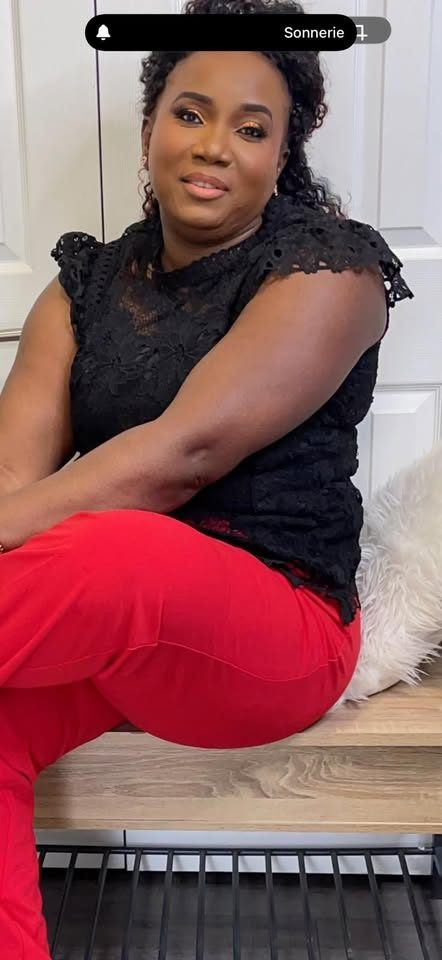
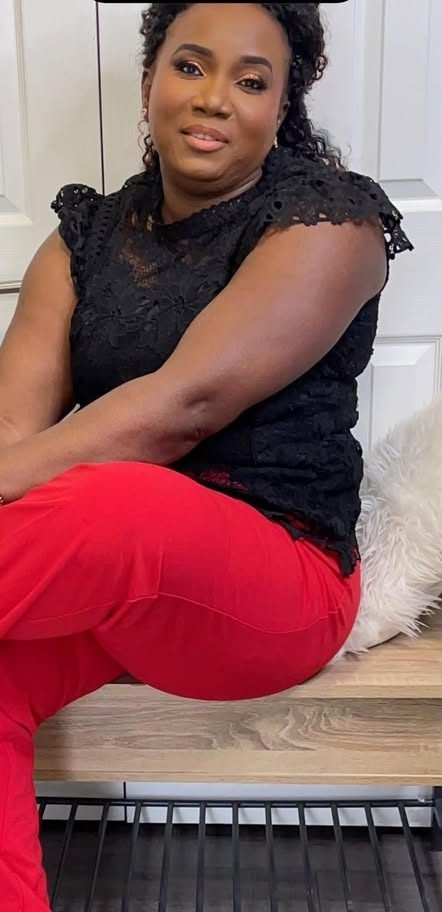
Remove empty gallery placeholders and fix Rachel's photo crop
Gallery now only shows the 4 real photos on hand instead of padding
out to 12 with "Add Photo" placeholder tiles. Rachel's portrait was
being cropped to show only her torso since object-cover defaulted to
a center crop on a much taller-than-container source image; anchoring
the crop to the top (object-top) keeps her face in frame, and the
leftover phone status-bar sliver at the top of the source photo is
cropped out.

diff --git a/src/components/gallery/GalleryGrid.tsx b/src/components/gallery/GalleryGrid.tsx
@@ -2,7 +2,7 @@
 
 import { useState } from "react";
 import Image from "next/image";
-import { X, ImagePlus } from "lucide-react";
+import { X } from "lucide-react";
 import type { GalleryImage } from "@/data/gallery";
 
 export default function GalleryGrid({ images }: { images: GalleryImage[] }) {
@@ -16,30 +16,17 @@ export default function GalleryGrid({ images }: { images: GalleryImage[] }) {
             key={image.alt}
             type="button"
             onClick={() => setActive(index)}
-            className={`group relative aspect-square rounded-xl overflow-hidden transition-colors ${
-              image.src
-                ? "border border-[var(--color-brand-gold)]/30 hover:border-[var(--color-brand-plum)]"
-                : "bg-[var(--color-brand-cream-dark)] border-2 border-dashed border-[var(--color-brand-gold)]/50 flex flex-col items-center justify-center gap-2 hover:border-[var(--color-brand-plum)]"
-            }`}
+            className="group relative aspect-square rounded-xl overflow-hidden border border-[var(--color-brand-gold)]/30 hover:border-[var(--color-brand-plum)] transition-colors"
             aria-label={`View photo: ${image.alt}`}
           >
-            {image.src ? (
-              <Image
-                src={image.src}
-                alt={image.alt}
-                fill
-                sizes="(max-width: 640px) 50vw, (max-width: 1024px) 33vw, 25vw"
-                className="object-cover group-hover:scale-105 transition-transform duration-300"
-                loading="lazy"
-              />
-            ) : (
-              <>
-                <ImagePlus className="w-7 h-7 text-[var(--color-brand-caramel)]/60" aria-hidden="true" />
-                <span className="text-xs font-semibold uppercase tracking-wide text-[var(--color-brand-caramel-dark)]/70 px-2 text-center">
-                  Add Photo
-                </span>
-              </>
-            )}
+            <Image
+              src={image.src}
+              alt={image.alt}
+              fill
+              sizes="(max-width: 640px) 50vw, (max-width: 1024px) 33vw, 25vw"
+              className="object-cover group-hover:scale-105 transition-transform duration-300"
+              loading="lazy"
+            />
             <span className="absolute bottom-0 inset-x-0 bg-[var(--color-brand-charcoal)]/80 text-[var(--color-brand-cream)] text-[11px] px-2 py-1 opacity-0 group-hover:opacity-100 transition-opacity">
               {image.category}
             </span>
@@ -63,31 +50,18 @@ export default function GalleryGrid({ images }: { images: GalleryImage[] }) {
           >
             <X className="w-7 h-7" aria-hidden="true" />
           </button>
-          {images[active].src ? (
-            <div
-              className="relative max-w-lg w-full aspect-square rounded-2xl overflow-hidden"
-              onClick={(e) => e.stopPropagation()}
-            >
-              <Image
-                src={images[active].src as string}
-                alt={images[active].alt}
-                fill
-                sizes="(max-width: 640px) 100vw, 512px"
-                className="object-cover"
-              />
-            </div>
-          ) : (
-            <div
-              className="max-w-lg w-full aspect-square rounded-2xl bg-[var(--color-brand-cream-dark)] border-2 border-dashed border-[var(--color-brand-gold)] flex flex-col items-center justify-center gap-3"
-              onClick={(e) => e.stopPropagation()}
-            >
-              <ImagePlus className="w-12 h-12 text-[var(--color-brand-caramel)]/60" aria-hidden="true" />
-              <span className="text-sm font-semibold uppercase tracking-wide text-[var(--color-brand-caramel-dark)]/70">
-                Add Photo
-              </span>
-              <p className="text-[var(--color-brand-charcoal)]/70 text-sm px-6 text-center">{images[active].alt}</p>
-            </div>
-          )}
+          <div
+            className="relative max-w-lg w-full aspect-square rounded-2xl overflow-hidden"
+            onClick={(e) => e.stopPropagation()}
+          >
+            <Image
+              src={images[active].src}
+              alt={images[active].alt}
+              fill
+              sizes="(max-width: 640px) 100vw, 512px"
+              className="object-cover"
+            />
+          </div>
         </div>
       )}
     </>

diff --git a/src/data/gallery.ts b/src/data/gallery.ts
@@ -1,12 +1,11 @@
 export type GalleryImage = {
-  src?: string;
+  src: string;
   alt: string;
   category: string;
 };
 
-// Real photos live in /public/images/gallery/. Entries without `src` are
-// placeholder slots — replace by adding a photo to that folder and setting
-// `src` (GalleryGrid.tsx renders a real <Image> whenever src is present).
+// Real photos live in /public/images/gallery/. Add more entries here as more
+// photos come in — GalleryGrid.tsx renders one real <Image> per entry.
 export const galleryImages: GalleryImage[] = [
   {
     src: "/images/gallery/calgary-african-hair-stylist-cornrow-braid-closeup-1.jpg",
@@ -28,12 +27,4 @@ export const galleryImages: GalleryImage[] = [
     alt: "African braid style collection by Calgary hair stylist Rachel",
     category: "Braids",
   },
-  { alt: "Men's twist style by Rachel in Calgary", category: "Men's Twists" },
-  { alt: "Natural hair texturing result at Calgary hair salon", category: "Texturing" },
-  { alt: "Vibrant hair coloring by Mommy & Daughter Hair Calgary", category: "Coloring" },
-  { alt: "Dimensional highlights styled in Calgary", category: "Highlights" },
-  { alt: "Women's twist style for textured hair in Calgary", category: "Twists" },
-  { alt: "Formal updo styling for a Calgary event", category: "Formal Styling" },
-  { alt: "Scalp treatment and healthy hair care in Calgary", category: "Scalp Treatments" },
-  { alt: "Kids protective braided style at Calgary salon", category: "Braids" },
 ];

diff --git a/src/components/home/About.tsx b/src/components/home/About.tsx
@@ -16,7 +16,7 @@ export default function About() {
                 alt="Rachel, Calgary hair stylist and owner of Mommy & Daughter Hair"
                 fill
                 sizes="(max-width: 1024px) 384px, 400px"
-                className="object-cover"
+                className="object-cover object-top"
                 priority
               />
             </div>
